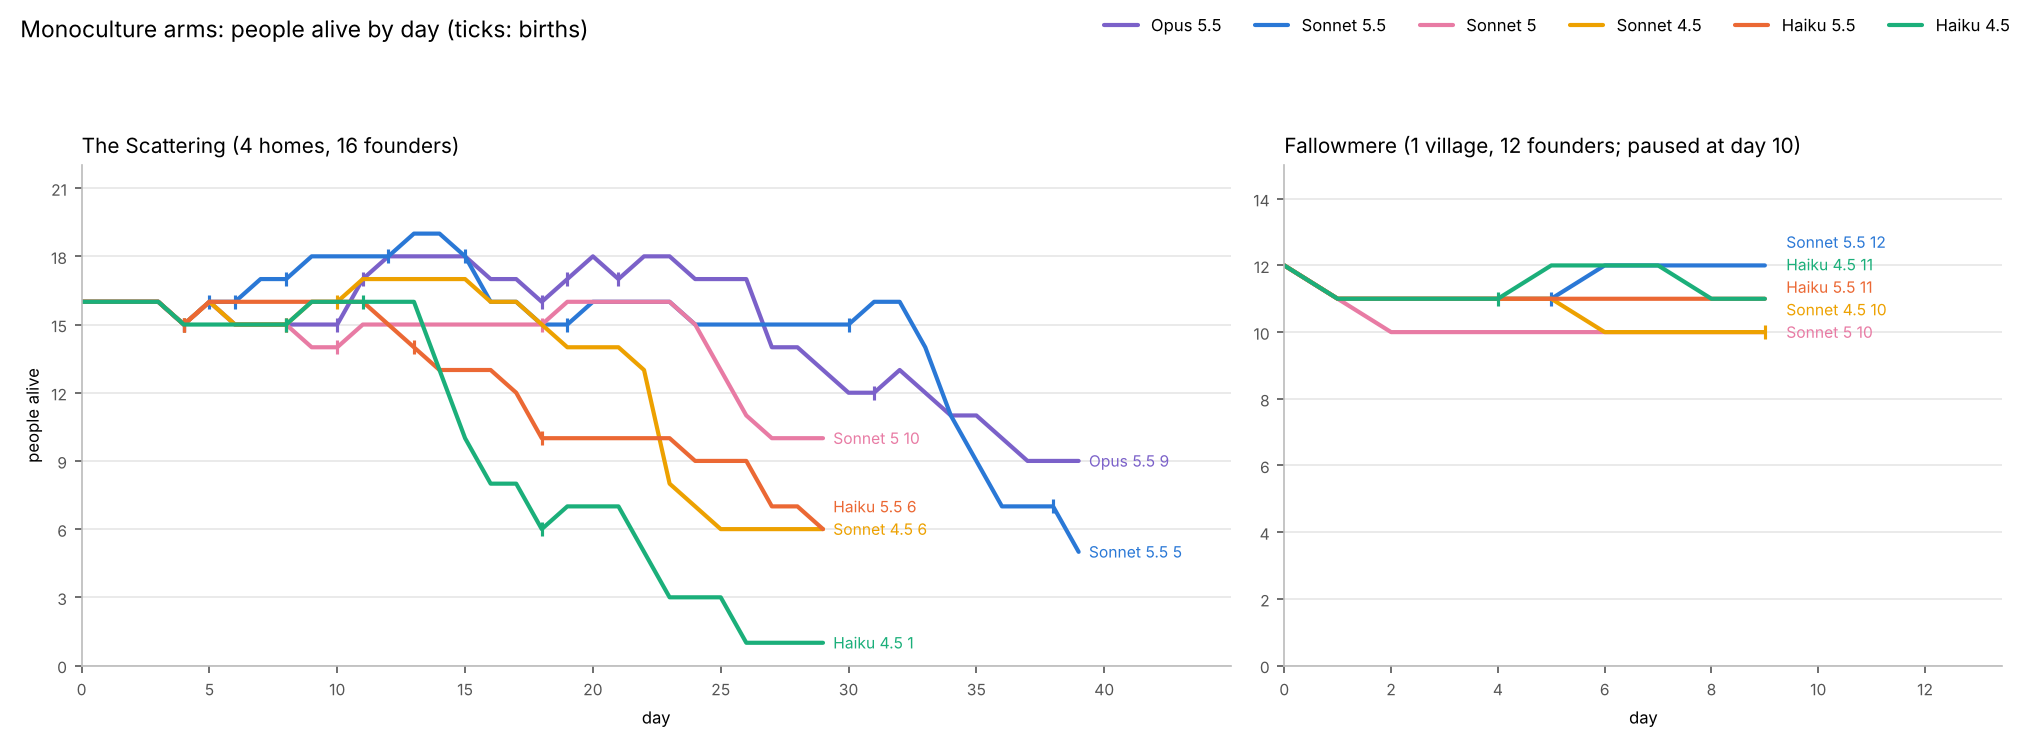
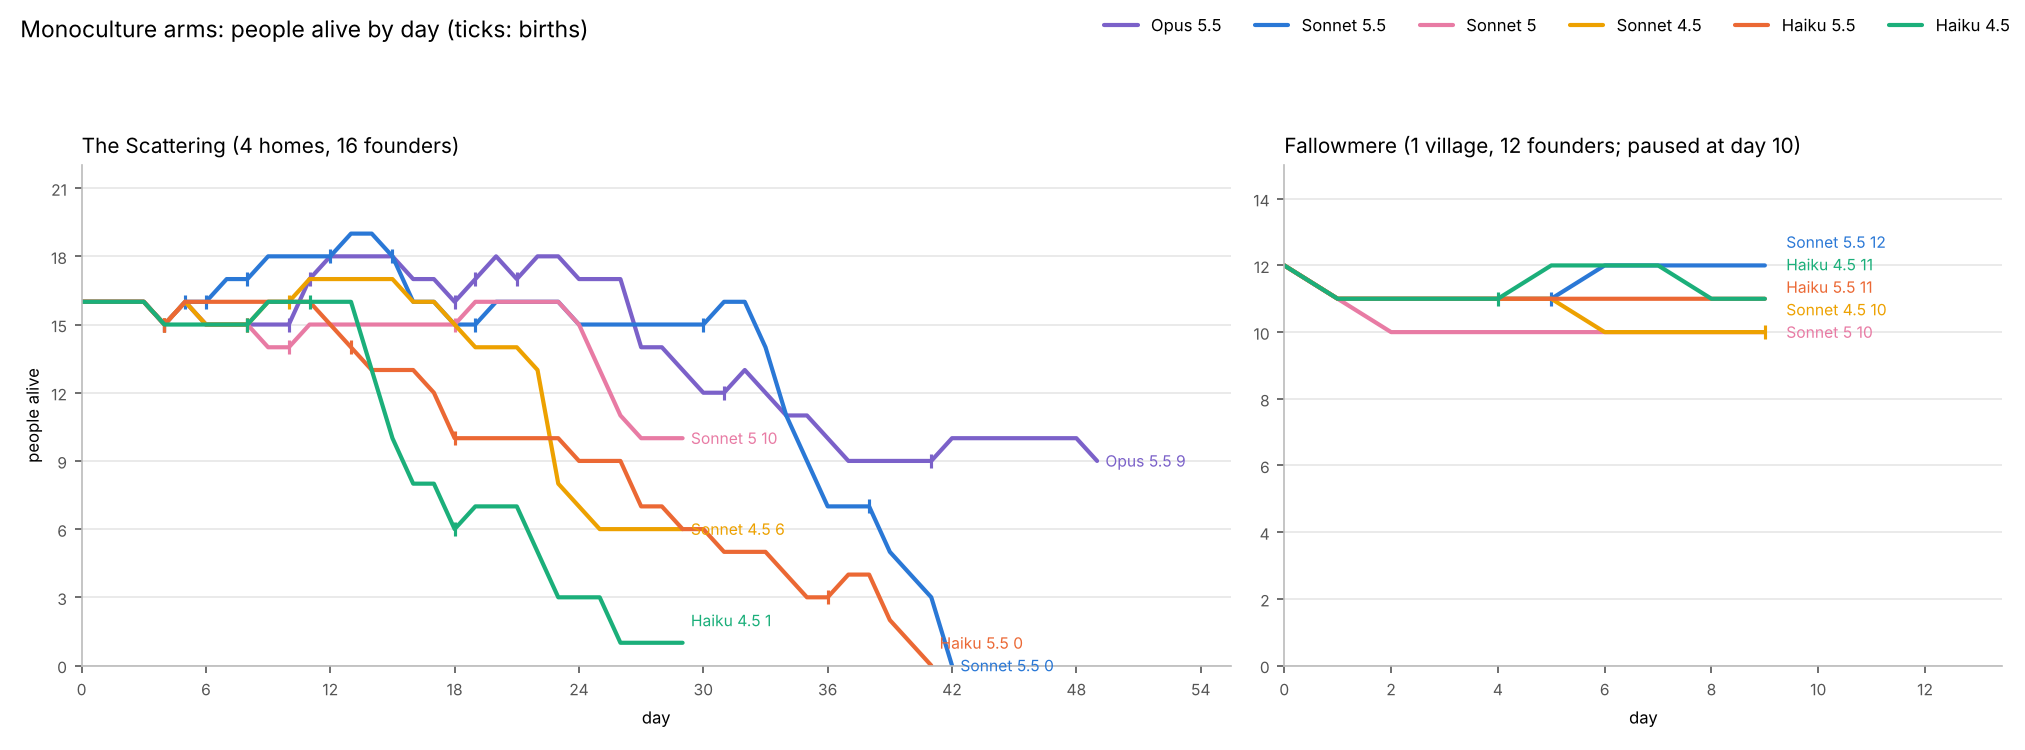
run W-204: Opus 5.5 alive at day 50; Sonnet 5.5 and Haiku 5.5 died out on days 43 and 42
Agent: bench
Thread: W-204

diff --git a/docs/cybertron2/items/W-204.md b/docs/cybertron2/items/W-204.md
@@ -7,7 +7,7 @@ state: active
 created: "2026-11-25"
 seq: 117
 parent: ["W-201"]
-next: "26 Nov ~16:55 UTC: Opus 5.5 and Sonnet 5.5 on the Scattering resumed 40 to 50, Haiku 5.5 30 to 50 (published at 40 and 50), at Zach's word ('do the next 10 days for both 5.5 models ... haiku 5.5 up to day 50 as well'); the other arms stay"
+next: "26 Nov 17:11 UTC: the Scattering's 5.5 arms: Opus 5.5 at day 50 with 9 alive (published); Sonnet 5.5 died out on day 43 and Haiku 5.5 on day 42, both of hunger in the spring before any harvest (both published at their end); other arms stay (Scattering 30, Fallowmere 10)"
 notes: started
 started: 25 Nov
 table: in_progress
